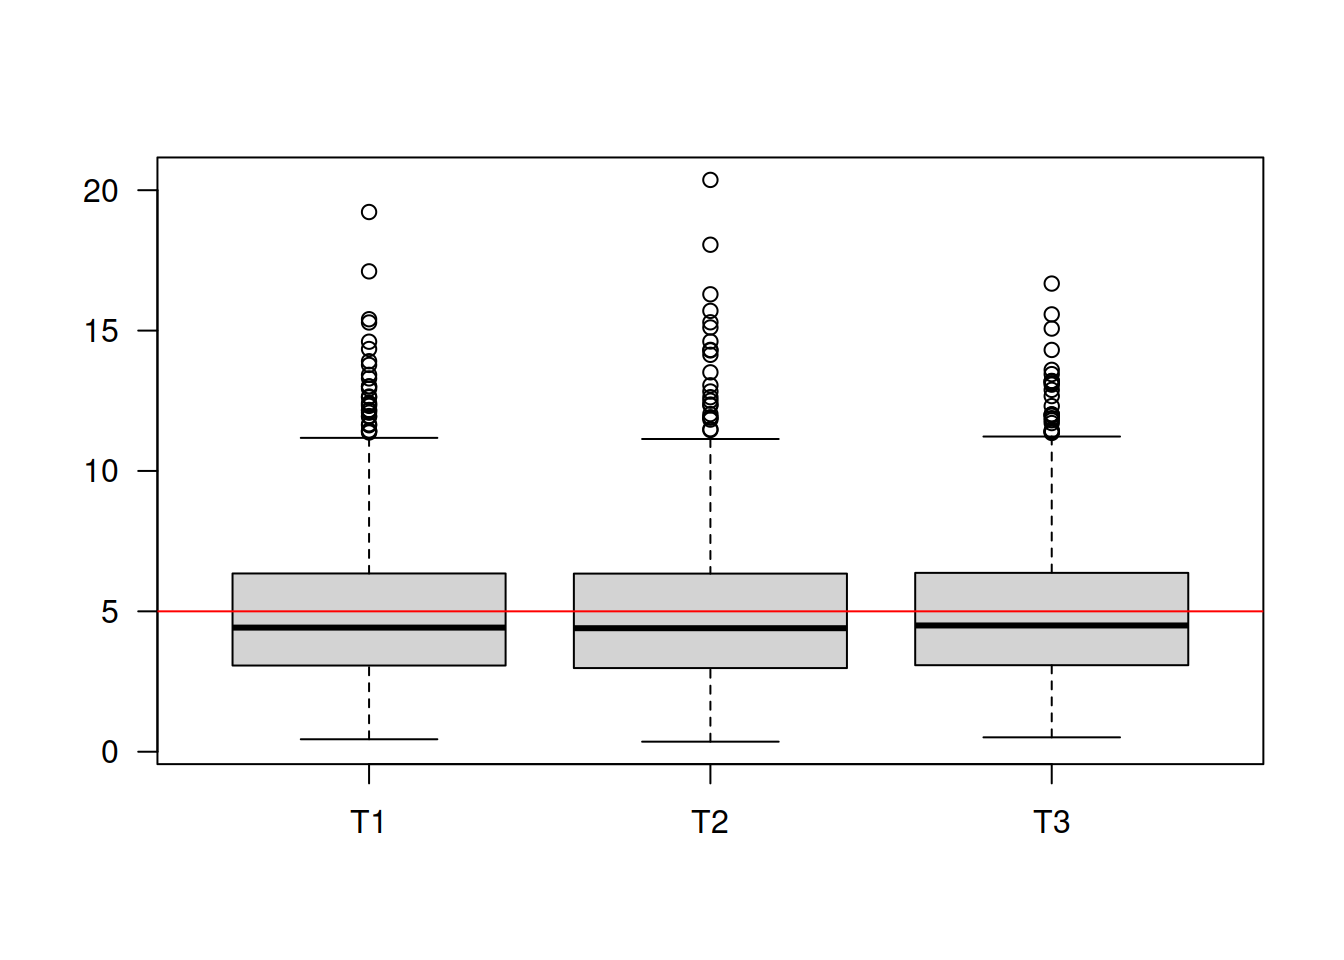
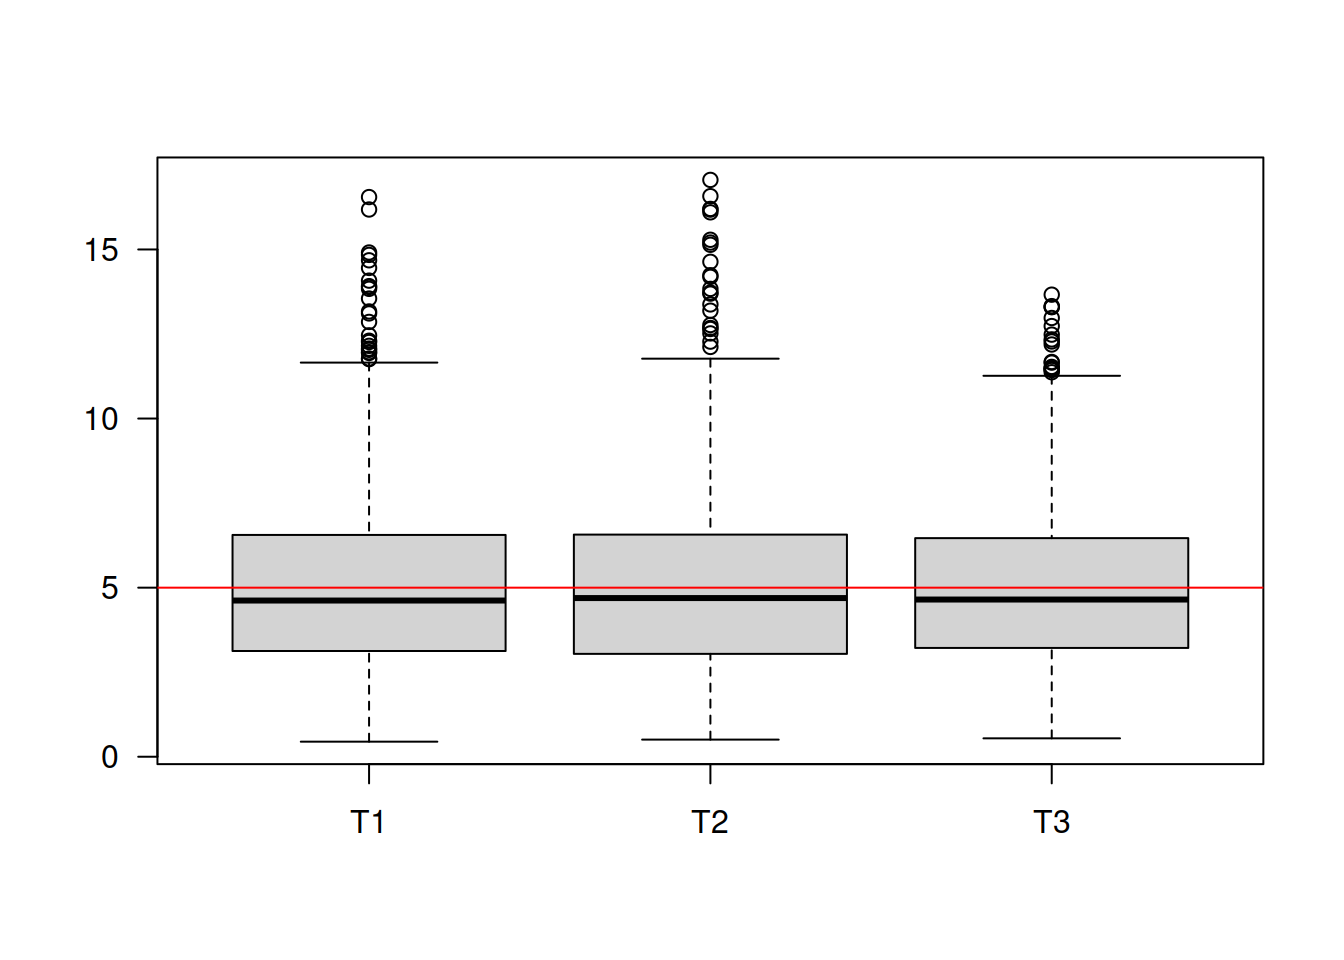
add problemas distribuciones nuestrales

diff --git a/docs/recurso41.html b/docs/recurso41.html
@@ -1300,11 +1300,11 @@ abline(h=5, col = &quot;red&quot;)</code></pre>
 <pre class="r"><code># Se calulan las medias
 apply(T123,2, mean)</code></pre>
 <pre><code>      T1       T2       T3 
-4.942571 4.928784 4.975786 </code></pre>
+5.084051 5.098041 5.039826 </code></pre>
 <pre class="r"><code># Se calculan las varianzas
 apply(T123,2, var)</code></pre>
 <pre><code>      T1       T2       T3 
-6.981919 7.370827 6.513060 </code></pre>
+6.943508 7.536079 6.047252 </code></pre>
 <p><br/></p>
 <p>El mojor estimador de acuerdo a los resultados es <span
 class="math inline">\(T_3\)</span>, que tiene un promedio más cercano a
@@ -1318,10 +1318,10 @@ class="math inline">\(T_3\)</span>, que tiene un promedio más cercano a
 <div id="principales-distribuciones-muestrales" class="section level4">
 <h4>Principales distribuciones muestrales:</h4>
 <ul>
-<li>normal</li>
-<li>Chi-cuadrado,</li>
-<li>t-student,</li>
-<li>F-Fisher</li>
+<li><strong>normal</strong></li>
+<li><strong>Chi-cuadrado</strong>,</li>
+<li><strong>t-student</strong>,</li>
+<li><strong>F-Fisher</strong></li>
 </ul>
 <p>Se denomina distribución muestral a la distribución que sigue los
 principales estimadores puntuales o funciones de ellos como son:</p>
@@ -1385,6 +1385,29 @@ parámetros <span class="math inline">\(\alpha=\frac{v}{2}\)</span> y
 <span class="math inline">\(\beta=2\)</span></p>
 <p><br/><br/></p>
 </div>
+<div id="problemas" class="section level3">
+<h3><strong>Problemas</strong></h3>
+<p>Para una distribución chi-cuadrado calcule :</p>
+<ul>
+<li><span class="math inline">\(\chi^{2}_{0.025}\)</span>, cuando <span
+class="math inline">\(v = 15\)</span></li>
+</ul>
+<pre class="r"><code>qchisq(0.025,15)</code></pre>
+<pre><code>[1] 6.262138</code></pre>
+<ul>
+<li><span class="math inline">\(\chi^{2}_{0.01}\)</span>, cuando <span
+class="math inline">\(v = 7\)</span></li>
+</ul>
+<pre class="r"><code>qchisq(0.01,7)</code></pre>
+<pre><code>[1] 1.239042</code></pre>
+<ul>
+<li><span class="math inline">\(\chi^{2}_{0.05}\)</span>, cuando <span
+class="math inline">\(v = 24\)</span></li>
+</ul>
+<pre class="r"><code>qchisq(0.05,24)</code></pre>
+<pre><code>[1] 13.84843</code></pre>
+<p><br/><br/></p>
+</div>
 <div id="distrución-t-student" class="section level3">
 <h3><strong>Distrución t-student</strong></h3>
 <p><br/></p>
@@ -1413,7 +1436,7 @@ curve(dt(x, df=5), lwd=3, las=1,xlim = c(-4,4), ylab=&#39;Densidad&#39;,add = TR
 curve(dt(x, df=20), lwd=3, las=1,xlim = c(-4,4), ylab=&#39;Densidad&#39;,add = TRUE, col=&quot;green&quot;)
 abline(h=0)
 grid()</code></pre>
-<p><img src="recurso41_files/figure-html/unnamed-chunk-5-1.png" width="672" style="display: block; margin: auto;" /></p>
+<p><img src="recurso41_files/figure-html/unnamed-chunk-8-1.png" width="672" style="display: block; margin: auto;" /></p>
 <p>La gráfica de la distribución t-student es similar a la de la
 distribución normal, salvo que sus colas son más pesadas.</p>
 <p>Si <span class="math inline">\(X_{1},X_{2},...,X_{n}\)</span> es una
@@ -1430,6 +1453,28 @@ class="math display">\[S^{2}=\frac{1}{n-1}\sum_{i=1}^{n}\Big(X_{i}-\bar{X}\Big)^
 \]</span></p>
 <p>tiene una distribución t-student con <span
 class="math inline">\(v=n-1\)</span> grados de libertad</p>
+<p><br/><br/></p>
+</div>
+<div id="problemas-1" class="section level3">
+<h3>Problemas</h3>
+<ul>
+<li>Calule <span class="math inline">\(t_{0.025}\)</span>, cuando <span
+class="math inline">\(v = 14\)</span></li>
+</ul>
+<pre class="r"><code>qt(0.025,10)</code></pre>
+<pre><code>[1] -2.228139</code></pre>
+<ul>
+<li>Calule <span class="math inline">\(t_{0.975}\)</span>, cuando <span
+class="math inline">\(v = 10\)</span></li>
+</ul>
+<pre class="r"><code>qt(0.975, 10)</code></pre>
+<pre><code>[1] 2.228139</code></pre>
+<ul>
+<li>Calcule <span class="math inline">\(t_{0.10}\)</span>, cuando <span
+class="math inline">\(v = 7\)</span></li>
+</ul>
+<pre class="r"><code>qt(0.10, 7)</code></pre>
+<pre><code>[1] -1.414924</code></pre>
 <p><br/><br/></p>
 </div>
 <div id="distribución-f-fisher" class="section level3">
@@ -1464,7 +1509,24 @@ curve(df(x, df1=10, df2=25), lwd=3, las=1,xlim = c(0,5), ylab=&#39;Densidad&#39;
 curve(df(x, df=20, df2=20), lwd=3, las=1,xlim = c(0,5), ylab=&#39;Densidad&#39;,add = TRUE, col=&quot;green&quot;)
 abline(h=0)
 grid()</code></pre>
-<p><img src="recurso41_files/figure-html/unnamed-chunk-6-1.png" width="672" style="display: block; margin: auto;" /></p>
+<p><img src="recurso41_files/figure-html/unnamed-chunk-12-1.png" width="672" style="display: block; margin: auto;" /></p>
+<p><br/><br/></p>
+<ul>
+<li>Calcule <span class="math inline">\(f_{0.025}\)</span>, con <span
+class="math inline">\(v_{1} = 7\)</span> y <span
+class="math inline">\(v_{2} = 15\)</span></li>
+</ul>
+<pre class="r"><code>qf(0.025, 7,15)</code></pre>
+<pre><code>[1] 0.2189244</code></pre>
+<ul>
+<li>Calcule <span class="math inline">\(f_{0.975}\)</span>, con <span
+class="math inline">\(v_{1} = 7\)</span> y <span
+class="math inline">\(v_{2} = 15\)</span></li>
+</ul>
+<pre class="r"><code>qf(0.975, 7, 15)</code></pre>
+<pre><code>[1] 3.29336</code></pre>
+<pre class="r"><code>1/qf(0.025, 15,7)</code></pre>
+<pre><code>[1] 3.29336</code></pre>
 <p><br/><br/></p>
 </div>
 </div>
